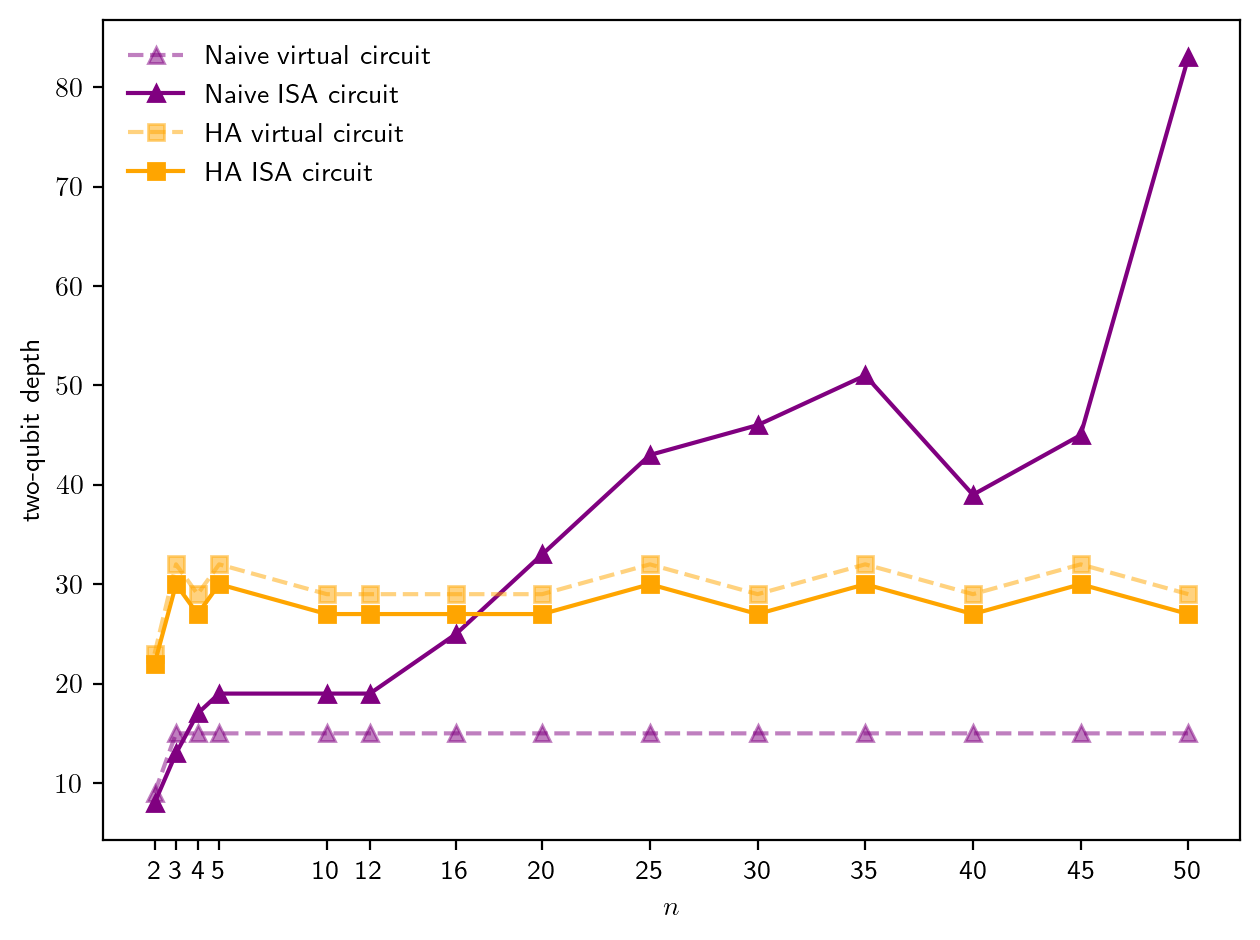
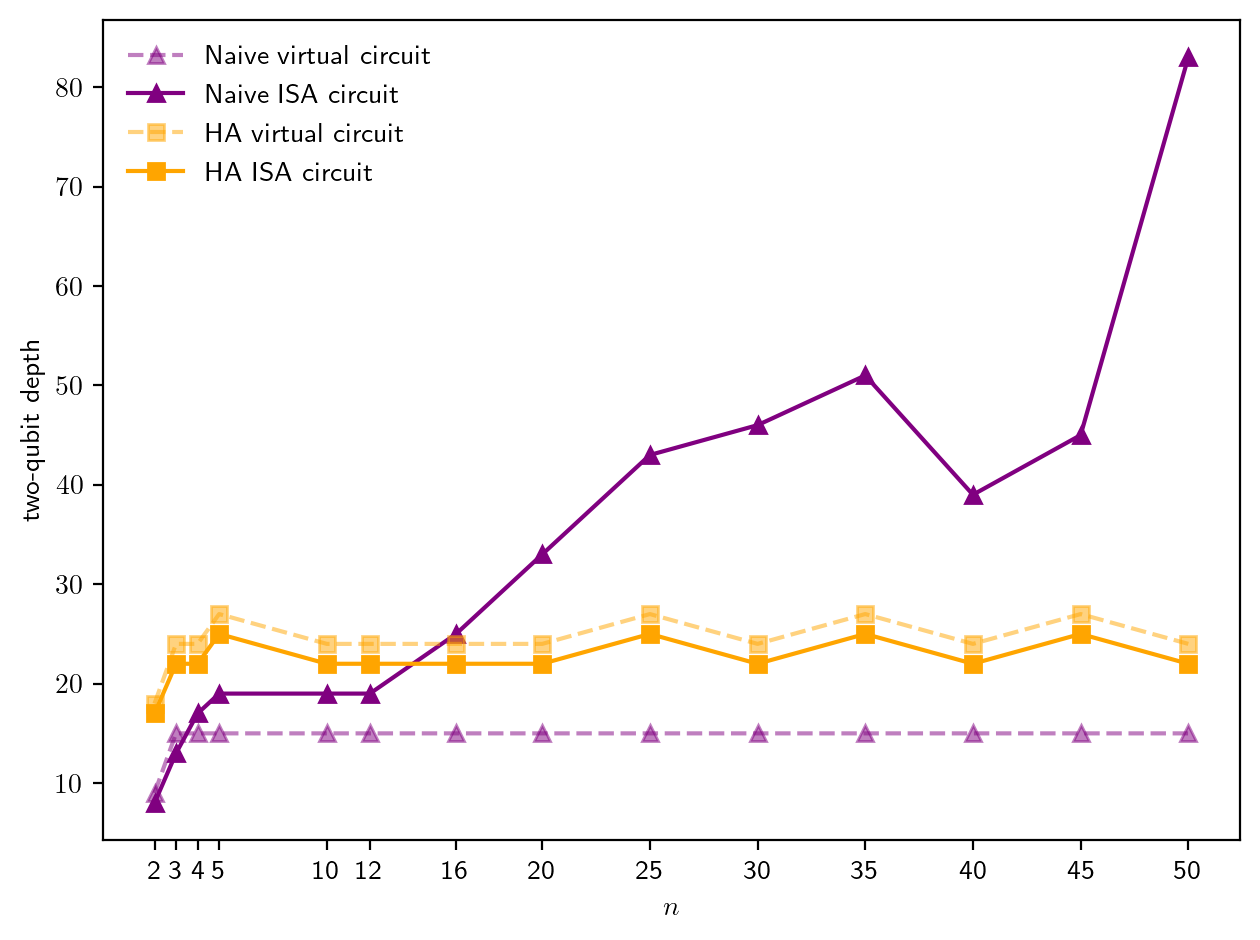
remove barrier in virtual ha qc to avoid overcounting tqd

Changed region(s): [[0.0929, 0.5862, 0.9595, 0.7713]]

diff --git a/standard_adc/hardware_aware_circuit.py b/standard_adc/hardware_aware_circuit.py
@@ -42,7 +42,7 @@ def ha_circuit(
             qc.ryy(alpha, q1, q2)
             qc.rzz(2*alpha, q1, q2)
 
-        qc.barrier()
+        #qc.barrier()
 
         counter = 0
         for i in range(0, n-1, 2):
@@ -50,7 +50,7 @@ def ha_circuit(
             qc.swap(q2, ancillas[counter])
             counter = counter + 1
 
-        qc.barrier()
+        #qc.barrier()
 
         if n > 2:
             counter = 0
@@ -62,7 +62,7 @@ def ha_circuit(
                 qc.rzz(2*alpha, q1, q2)
                 counter = counter + 1
 
-        qc.barrier()
+        #qc.barrier()
 
         if dissipation:
             counter = 0
@@ -78,7 +78,7 @@ def ha_circuit(
                 qc.reset(a)
                 counter = counter + 1
 
-            qc.barrier()
+            #qc.barrier()
 
             counter = 0
             for j in range(0, n-1, 2):
@@ -92,7 +92,7 @@ def ha_circuit(
                 qc.cx(ancillas[-1], system_qubits[-1])
                 qc.reset(ancillas[-1])
 
-            qc.barrier()
+            #qc.barrier()
 
     init_layout = chain_init_layout(n, backend, system_qubits, ancillas)           
     return qc, init_layout
